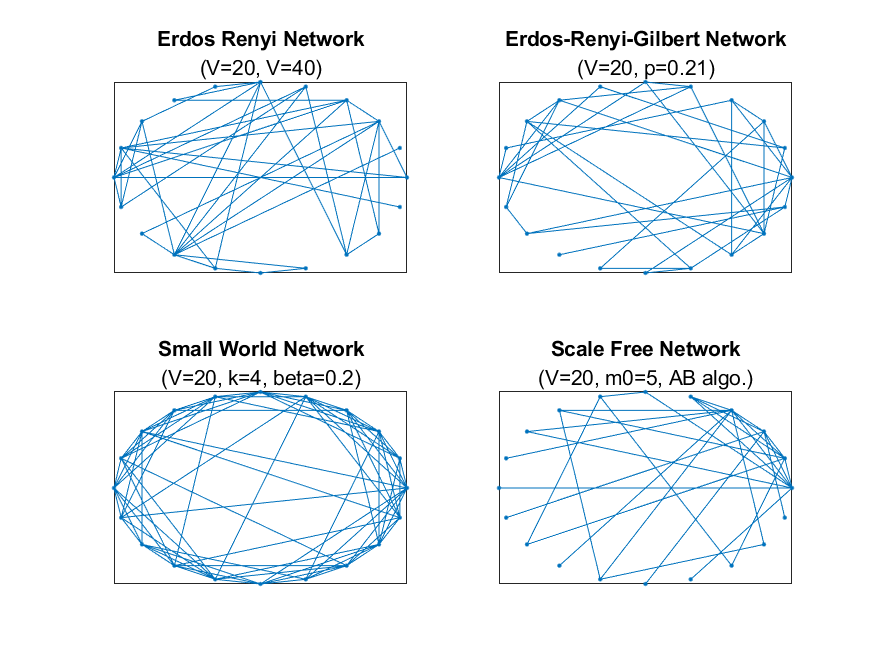
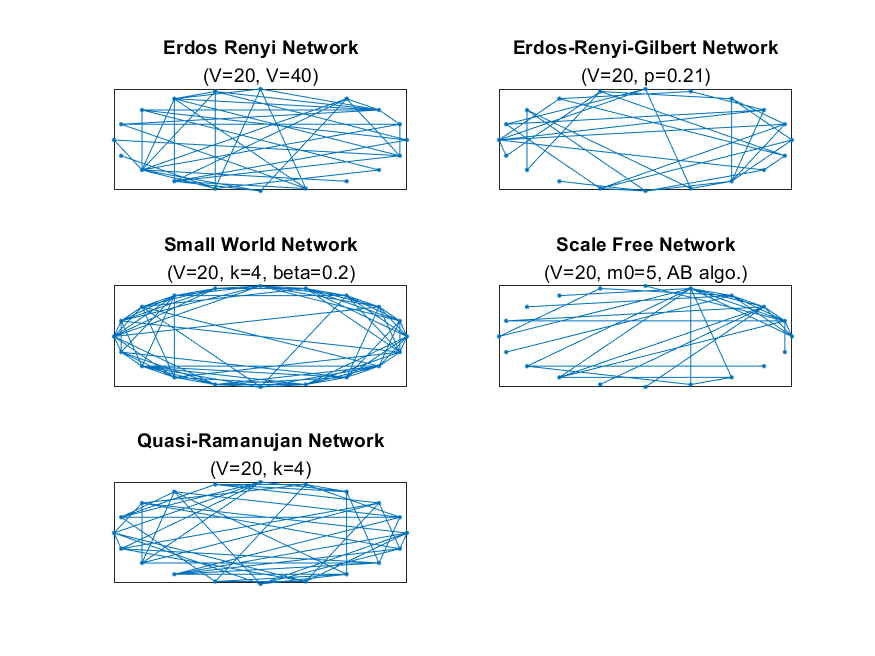
unsure

diff --git a/Code/random networks/quasi_ramanujan_network.m b/Code/random networks/quasi_ramanujan_network.m
@@ -1,0 +1,36 @@
+function [network, cords] = quasi_ramanujan_network(V, k)
+%QUASI_RAMANUJAN_NETWORK This function generates a random, quasi ramanujan
+%   network based on the paper "Algebraic Connectivity Rtio of Ramanujan 
+%   Graphs" by Reza Olifati-Saber. The paper proposes a method for
+%   generating these networks by first creating a Small World network using
+%   the Watts-Strogatz method and then balancing the network to be d
+%   regular with Algorithm 1 in the paper.
+beta = 1;
+[network, cords] = small_world_network(V, k, beta);
+
+%sum(network);
+%i = 0;
+while max(sum(network)) ~= min(sum(network))
+    %disp("iter: " + string(i))
+    %i = i + 1;
+    %disp(max(sum(network)))
+    %disp(min(sum(network)))
+    % Select node with max degree
+    rich_node = randsample(find(sum(network) == max(sum(network))), 1);
+    % Select node with min degree
+    poor_node = randsample(find(sum(network) == min(sum(network))), 1);
+    % Select random neighbor of rich node
+    rich_neighbor = randsample(find(network(rich_node,:) == 1), 1);
+    % Rewire rich_node <--> rich_neighbor to rich_neighbor <--> poor_node
+    network(rich_node, rich_neighbor) = false;
+    network(rich_neighbor, rich_node) = false;
+    network(poor_node, rich_neighbor) = true;
+    network(rich_neighbor, poor_node) = true;
+end
+%disp("iter: " + string(i))
+%i = i + 1;
+%disp(max(sum(network)))
+%disp(min(sum(network)))
+
+end
+

diff --git a/Code/random networks/demo_random_networks.m b/Code/random networks/demo_random_networks.m
@@ -7,7 +7,7 @@ V = 20;
 k = 4;
 beta = 0.2;
 [network, cords] = small_world_network(V, k, beta);
-subplot(2,2,3);
+subplot(3,2,3);
 gplot(network, cords', '.-');
 title('Small World Network','(V=20, k=4, beta=0.2)');
 set(gca,'XTick',[]);
@@ -17,7 +17,7 @@ set(gca,'YTick',[]);
 V = 20;
 E = 40;
 network = erdos_renyi_network(V, E);
-subplot(2,2,1);
+subplot(3,2,1);
 gplot(network, cords', '.-');
 title('Erdos Renyi Network','(V=20, V=40)');
 set(gca,'XTick',[]);
@@ -27,7 +27,7 @@ set(gca,'YTick',[]);
 V = 20;
 p = 0.21;
 network = erdos_renyi_gilbert_network(V, p);
-subplot(2,2,2);
+subplot(3,2,2);
 gplot(network, cords', '.-');
 title('Erdos-Renyi-Gilbert Network','(V=20, p=0.21)');
 set(gca,'XTick',[]);
@@ -37,10 +37,23 @@ set(gca,'YTick',[]);
 V = 20;
 m0 = 5;
 network = scale_free_network(V, m0);
-subplot(2,2,4);
+subplot(3,2,4);
 gplot(network, cords', '.-');
 title('Scale Free Network','(V=20, m0=5, AB algo.)');
 set(gca,'XTick',[]);
 set(gca,'YTick',[]);
 
+%% Quasi Ramanujan Networks
+V = 100;
+k = 10;
+[network, cords] = quasi_ramanujan_network(V, k);
+%subplot(3,2,5)
+figure;
+gplot(network, cords', '.-');
+title('Quasi-Ramanujan Network','(V=20, k=4)');
+set(gca,'XTick',[]);
+set(gca,'YTick',[]);
+disp(sum(sum(network)));
+
+%%
 saveas(gcf, 'random network demo.png')

diff --git a/Code/edge removal/random_removal.m b/Code/edge removal/random_removal.m
@@ -1,7 +1,7 @@
 function [known_network, unknown_network] = random_removal(network, percent_removed)
     %% Set parameters
     known_edges = round(percent_removed * sum(sum(network)));
-    current_edges = known_edges;
+    current_edges = sum(sum(network));
 
     %% Define the known edges
     known_network = network;
@@ -9,10 +9,10 @@ function [known_network, unknown_network] = random_removal(network, percent_remo
     while current_edges >= known_edges
         for i=1:m
             for j=i:m
-                if current_edges >= known_edges
+                if current_edges < known_edges
                     break
                 end
-                if network(i,j) && rand() > prob
+                if network(i,j) && rand() > percent_removed
                     known_network(i,j) = 0;
                     known_network(j,i) = 0;
                     current_edges = current_edges - 2;

diff --git a/Experiments/Random Network Similarity Based Link Prediction/driver_experiment.m b/Experiments/Random Network Similarity Based Link Prediction/driver_experiment.m
@@ -1,20 +1,26 @@
 %% Experiment Parameters
 
 graph_type = ["ER", "ERG", "SW", "SF"];
-edge_removal = ["R", "SB", "CE", "RC"];
+edge_removal_method = ["R", "SB", "CE", "RC"];
 V = 100;
 
 %% Experiment
 
 for gt=graph_type
-    for er=edge_removal
+    for er=edge_removal_method
         network = generate_random_network(gt, 100);
+        figure;
         subplot(3,1,1);
         scree(double(network));
-        [known, unknown] = edge_removal(network, er, 0.2);
-        scree(known);
+        title(string(gt) + " True");
+        [known, unknown] = edge_removal(network, er, 0.5);
         subplot(3,1,2);
-        scree(unknown);
+        scree(double(known));
+        title(string(er) + " Removal: Known");
         subplot(3,1,3);
+        scree(double(unknown));
+        title(string(er) + " Removal: Unknown");
     end
 end
+
+

diff --git a/Code/edge removal/edge_removal.m b/Code/edge removal/edge_removal.m
@@ -9,7 +9,7 @@ function [known_network, unknown_network] = edge_removal(network, method, percen
         case 'SB'
             [known_network, unknown_network] = snowball_removal(network, percent_removed);
         case 'CE'
-            disp('Cold Ends method not yet impimented')
+            [known_network, unknown_network] = cold_ends_removal(network, percent_removed);
         case 'RC'
             [known_network, unknown_network] = right_censoring_removal(network, percent_removed);
     end

diff --git a/Code/utils/scree.m b/Code/utils/scree.m
@@ -3,9 +3,14 @@ function scree(matrix)
 %
 %   Joshua Pickard jpic@umich.edu
 %   April 8, 2022
-    eigenvalues = real(eig(matrix));
+    % Row normalize the matrix
+    for i=1:length(matrix)
+        if sum(matrix(i,:)) ~= 0
+            matrix(i,:) = matrix(i,:) / sum(matrix(i,:));
+        end
+    end
+    eigenvalues = flip(sort(real(eig(matrix))));
     plot(eigenvalues, '-o');
     ylabel('Eigenvalue');
     xlabel('Component');
-    title('Scree Plot');
 end

diff --git a/Code/random networks/generate_random_network.m b/Code/random networks/generate_random_network.m
@@ -9,7 +9,7 @@ function [network] = generate_random_network(type, V, arg1)
 %   - SW: Small World
 switch type
     case 'ER'
-        network = erdos_renyi_network(V, round(0.2 * V));
+        network = erdos_renyi_network(V, round(10 * V));
     case 'ERG'
         network = erdos_renyi_gilbert_network(V, 0.2);
     case 'LW'

diff --git a/Code/edge removal/cold_ends_removal.m b/Code/edge removal/cold_ends_removal.m
@@ -9,7 +9,7 @@ function [known_network, unknown_network] = cold_ends_removal(network, percent_r
 
     %% Set parameters
     known_edges = round(percent_removed * sum(sum(network)));
-    current_edges = known_edges;
+    current_edges = sum(sum(network));
     
     %% Define the known edges
     known_network = network;

diff --git a/Code/random networks/small_world_network.m b/Code/random networks/small_world_network.m
@@ -35,6 +35,7 @@ network = network + network';
 
 % Get cords to plot circular lattice
 G = graph(network);
+figure; 
 p = plot(G, 'layout', 'circle');
 x = p.XData;
 y = p.YData;
